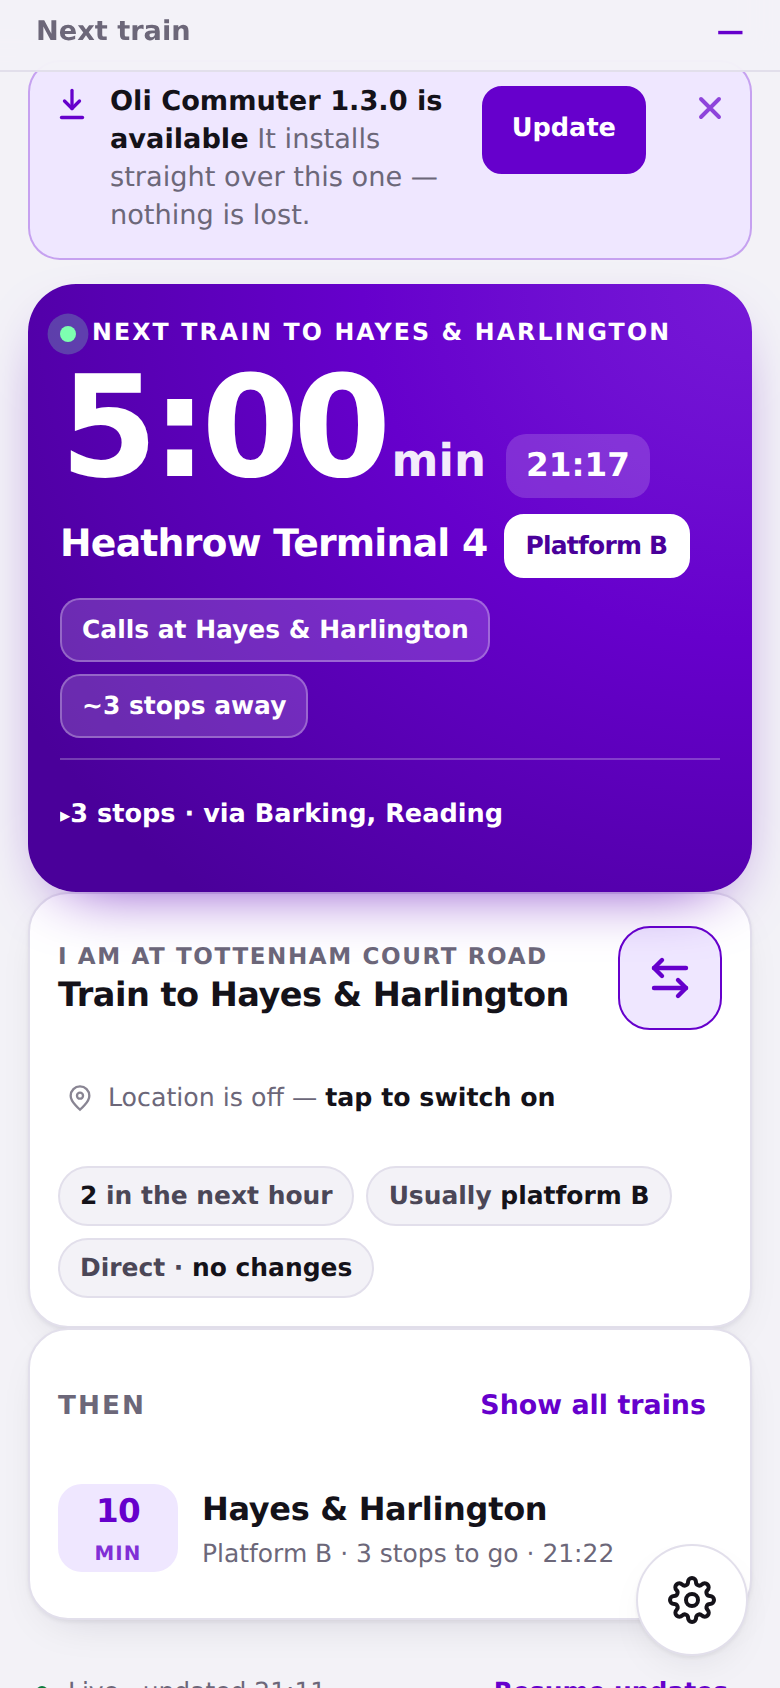
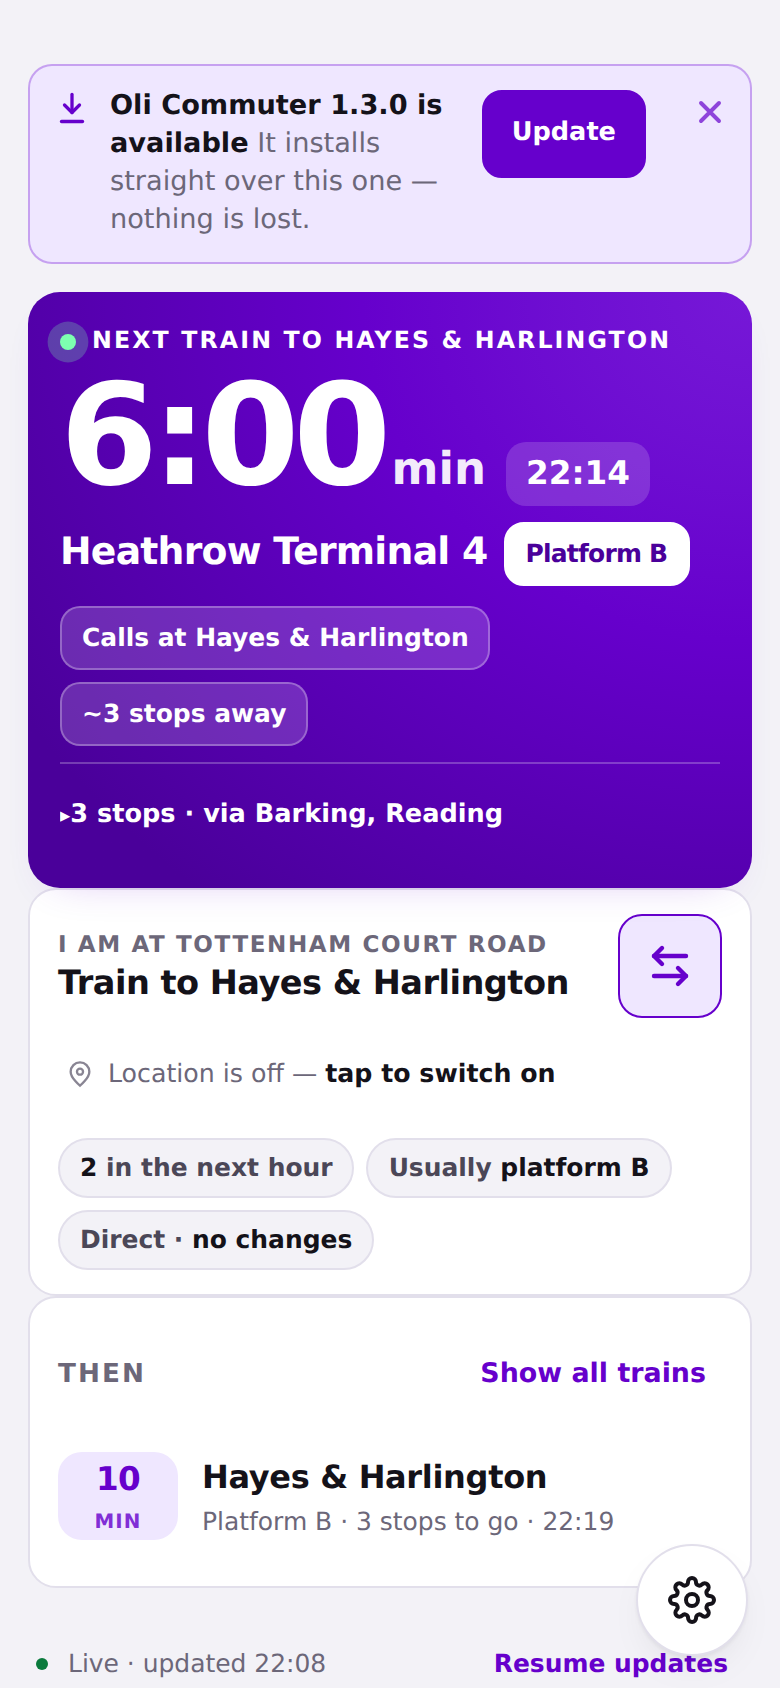
v1.5.3: tighter corners, honest edges
- radii: cards 20->14, hero 24->16, sheets 26->20, buttons/flip 14/16->12
- hero shadow goes from a 34px 90%-purple flood to a short neutral hint;
  cards no longer cast haze onto their neighbours (the complaint in the
  field screenshots: cards read as overflowing one over the other)
- cards drop box-shadows for their hairline outlines; gaps 12->14
- journey card and via-box tightened to their content

diff --git a/web/index.html b/web/index.html
@@ -20,7 +20,7 @@
     --line:#e2dfeb; --line-strong:#cdc8dd;
     --ok:#0a7a3c; --ok-soft:#e3f5ea; --warn:#8a5300; --warn-soft:#fdf0dc; --bad:#b3122f; --bad-soft:#fde7ea;
     --shadow:0 1px 2px rgba(18,10,40,.06), 0 8px 24px -12px rgba(18,10,40,.18);
-    --radius:20px;
+    --radius:14px;
   }
   html[data-theme="dark"]{
     --el:#a680ff; --el-2:#5c17c9; --el-soft:#241640;
@@ -43,7 +43,7 @@
   .sr-only{position:absolute!important;width:1px;height:1px;padding:0;margin:-1px;overflow:hidden;clip:rect(0 0 0 0);white-space:nowrap;border:0}
   :focus-visible{outline:3px solid color-mix(in srgb, var(--el) 55%, transparent); outline-offset:2px; border-radius:8px}
 
-  .app{width:100%; max-width:540px; padding:calc(10px + env(safe-area-inset-top)) 14px calc(96px + env(safe-area-inset-bottom)); display:flex; flex-direction:column; gap:12px;
+  .app{width:100%; max-width:540px; padding:calc(10px + env(safe-area-inset-top)) 14px calc(96px + env(safe-area-inset-bottom)); display:flex; flex-direction:column; gap:14px;
        transition:transform .25s cubic-bezier(.2,.8,.3,1.15)}
   .app.is-pulling{transition:none}
 
@@ -88,10 +88,10 @@
   @keyframes spin{to{transform:rotate(360deg)}}
 
   /* ---------- generic card ---------- */
-  .card{background:var(--card);border:1px solid var(--line);border-radius:var(--radius);box-shadow:var(--shadow)}
+  .card{background:var(--card);border:1px solid var(--line);border-radius:var(--radius)}
 
   /* ---------- banner ---------- */
-  .banner{display:flex;gap:10px;align-items:flex-start;padding:11px 12px;border-radius:16px;font-size:.85rem;line-height:1.4}
+  .banner{display:flex;gap:10px;align-items:flex-start;padding:11px 12px;border-radius:12px;font-size:.85rem;line-height:1.4}
   .banner .body{flex:1 1 auto;min-width:0}
   .banner details{margin-top:4px}
   .banner summary{cursor:pointer;list-style:none;font-size:.78rem;text-decoration:underline;text-underline-offset:2px;min-height:24px;display:flex;gap:6px;align-items:center}
@@ -119,31 +119,31 @@
   .dlbar i{display:block;height:100%;width:0;background:var(--el);border-radius:99px;transition:width .2s}
 
   /* ---------- journey / direction picker ---------- */
-  .journey{padding:14px}
-  .dir-row{display:flex;align-items:center;gap:12px;padding:2px 0}
+  .journey{padding:12px 14px}
+  .dir-row{display:flex;align-items:center;gap:12px;padding:0}
   .dir-txt{flex:1 1 auto;min-width:0}
   .dir-txt small{display:block;font-size:.72rem;text-transform:uppercase;letter-spacing:.07em;color:var(--muted);font-weight:600}
   .dir-txt b{display:block;font-size:1.05rem;letter-spacing:-.015em;line-height:1.25}
-  .flip{width:52px;height:52px;flex:0 0 auto;border-radius:16px;border:1px solid var(--el);background:var(--el-soft);
+  .flip{width:52px;height:52px;flex:0 0 auto;border-radius:12px;border:1px solid var(--el);background:var(--el-soft);
         color:var(--el);display:grid;place-items:center;cursor:pointer}
   .flip:active{transform:scale(.96)}
   .flip svg{width:24px;height:24px}
   /* "which station am I at" line */
-  .geo{display:flex;align-items:center;gap:7px;width:100%;margin-top:10px;padding:6px 4px;border:0;background:none;
+  .geo{display:flex;align-items:center;gap:7px;width:100%;margin-top:6px;padding:6px 4px;border:0;background:none;
        font:inherit;font-size:.79rem;color:var(--muted);text-align:left;cursor:pointer;border-radius:10px;min-height:44px}
   .geo svg.pin{width:14px;height:14px;flex:0 0 auto;opacity:.8}
   .geo b{color:var(--ink);font-weight:700}
   .geo.on{color:var(--el)} .geo.on b{color:var(--el)}
   .geo:active{background:var(--el-soft)}
-  .facts{display:flex;flex-wrap:wrap;gap:6px;margin-top:12px}
+  .facts{display:flex;flex-wrap:wrap;gap:6px;margin-top:10px}
   .fact{font-size:.78rem;padding:5px 10px;border-radius:99px;background:var(--bg);border:1px solid var(--line);color:var(--ink-2);font-weight:600}
   .fact b{color:var(--ink);font-weight:800}
 
   /* ---------- hero ---------- */
   .hero{
-    position:relative;overflow:hidden;border:0;color:#fff;padding:16px 16px 14px;border-radius:24px;
+    position:relative;overflow:hidden;border:0;color:#fff;padding:16px 16px 12px;border-radius:16px;
     background:radial-gradient(120% 130% at 100% 0%, color-mix(in srgb, var(--el) 78%, #b06cff) 0%, var(--el) 45%, var(--el-2) 100%);
-    box-shadow:0 12px 34px -18px color-mix(in srgb, var(--el) 90%, black);
+    box-shadow:0 8px 22px -14px color-mix(in srgb, var(--el) 30%, transparent);
   }
   .hero .kicker{display:flex;align-items:center;gap:8px;font-size:.74rem;text-transform:uppercase;letter-spacing:.09em;font-weight:800;opacity:1}
   .live{width:8px;height:8px;border-radius:50%;background:#7dffb0;box-shadow:0 0 0 0 rgba(125,255,176,.8);animation:pulse 2s infinite}
@@ -157,7 +157,7 @@
   .chip{font-size:.78rem;font-weight:700;padding:6px 10px;border-radius:10px;background:rgba(255,255,255,.17);border:1px solid rgba(255,255,255,.28);white-space:nowrap}
   .chip.plat{background:#fff;color:var(--el-2);border-color:#fff}
   .hero .via{margin-top:8px;font-size:.8rem;opacity:.92;line-height:1.45}
-  .hero .via-box{margin-top:10px;border-top:1px solid rgba(255,255,255,.24);padding-top:8px}
+  .hero .via-box{margin-top:8px;border-top:1px solid rgba(255,255,255,.24);padding-top:6px}
   .hero .via-box summary{cursor:pointer;list-style:none;font-size:.8rem;font-weight:700;opacity:1;min-height:44px;
     display:-webkit-box;-webkit-line-clamp:2;-webkit-box-orient:vertical;overflow:hidden;padding:11px 0}
   #heroRetry, #heroSettings{min-height:44px;padding:8px 14px;display:inline-flex;align-items:center}
@@ -208,7 +208,7 @@
   .state p{font-size:.88rem;margin-bottom:12px}
   .state .art{font-size:2rem;line-height:1;margin-bottom:8px}
   .btn{
-    display:inline-flex;align-items:center;justify-content:center;gap:8px;min-height:48px;padding:10px 18px;border-radius:14px;
+    display:inline-flex;align-items:center;justify-content:center;gap:8px;min-height:48px;padding:10px 18px;border-radius:12px;
     border:1px solid var(--line);background:var(--card);font-weight:750;cursor:pointer;box-shadow:var(--shadow)
   }
   .btn.primary{background:var(--el);border-color:var(--el);color:#fff}
@@ -230,7 +230,7 @@
   .scrim{position:fixed;inset:0;background:rgba(10,6,22,.5);z-index:40;backdrop-filter:blur(2px)}
   .sheet{
     position:fixed;left:0;right:0;bottom:0;z-index:50;max-height:92dvh;display:flex;flex-direction:column;overflow:hidden;
-    background:var(--card);border-top:1px solid var(--line);border-radius:26px 26px 0 0;padding:8px 16px 0;
+    background:var(--card);border-top:1px solid var(--line);border-radius:20px 20px 0 0;padding:8px 16px 0;
     animation:up .28s cubic-bezier(.2,.8,.2,1)
   }
   @keyframes up{from{transform:translateY(6%)}}
@@ -282,7 +282,7 @@
 
   /* ---------- larger screens ---------- */
   @media (max-height:720px){
-    .hero{padding:12px 14px 10px;border-radius:18px}
+    .hero{padding:12px 14px 10px;border-radius:14px}
     .hero .cd{font-size:clamp(2.2rem,12vw,3rem)}
     .hero .when{margin-top:2px}
     .journey{padding:10px 12px}
@@ -2109,6 +2109,10 @@ let geoDeferred = !store.get("setupSeen", false);
 if(settings.geoOn && !geoDeferred){ startGeoWatch(); pollGeoOnce(); }
 if(isNativeApp() && Date.now() - state.updateCheckedAt > UPDATE.staleMs){ UPDATE.check(false); }
 const NOTES = {
+  "1.5.3": [
+    "The board has new edges: tighter corners, clean card outlines, and no more purple haze bleeding from the big card onto the ones below.",
+    "The journey card ends where its content ends — less floating, more board."
+  ],
   "1.5.2": [
     "Picking a station is one move now: type in the find box and tap a name from the list under it.",
     "After an update this app tells you what changed, instead of saying nothing."

diff --git a/CHANGELOG.md b/CHANGELOG.md
@@ -3,6 +3,15 @@
 Worth-noting changes only. The version in `package.json` and `versionName` in
 `android/app/build.gradle` move together; tags are the version with a `v` in front.
 
+## 1.5.3 — 2026-11-15
+
+- The board has new edges. Corners are tighter (cards 14px, the big card
+  16px, sheets 20px), the big card no longer throws a purple haze across
+  the card beneath it, and the cards sit with honest air between them
+- The journey card ends where its content ends: less floating space
+- Cards rest on their outlines alone — shadows only where something
+  actually floats (the buttons and the gear)
+
 ## 1.5.2 — 2026-11-15
 
 - Picking a station is one move now: type in the find box and tap a name from
